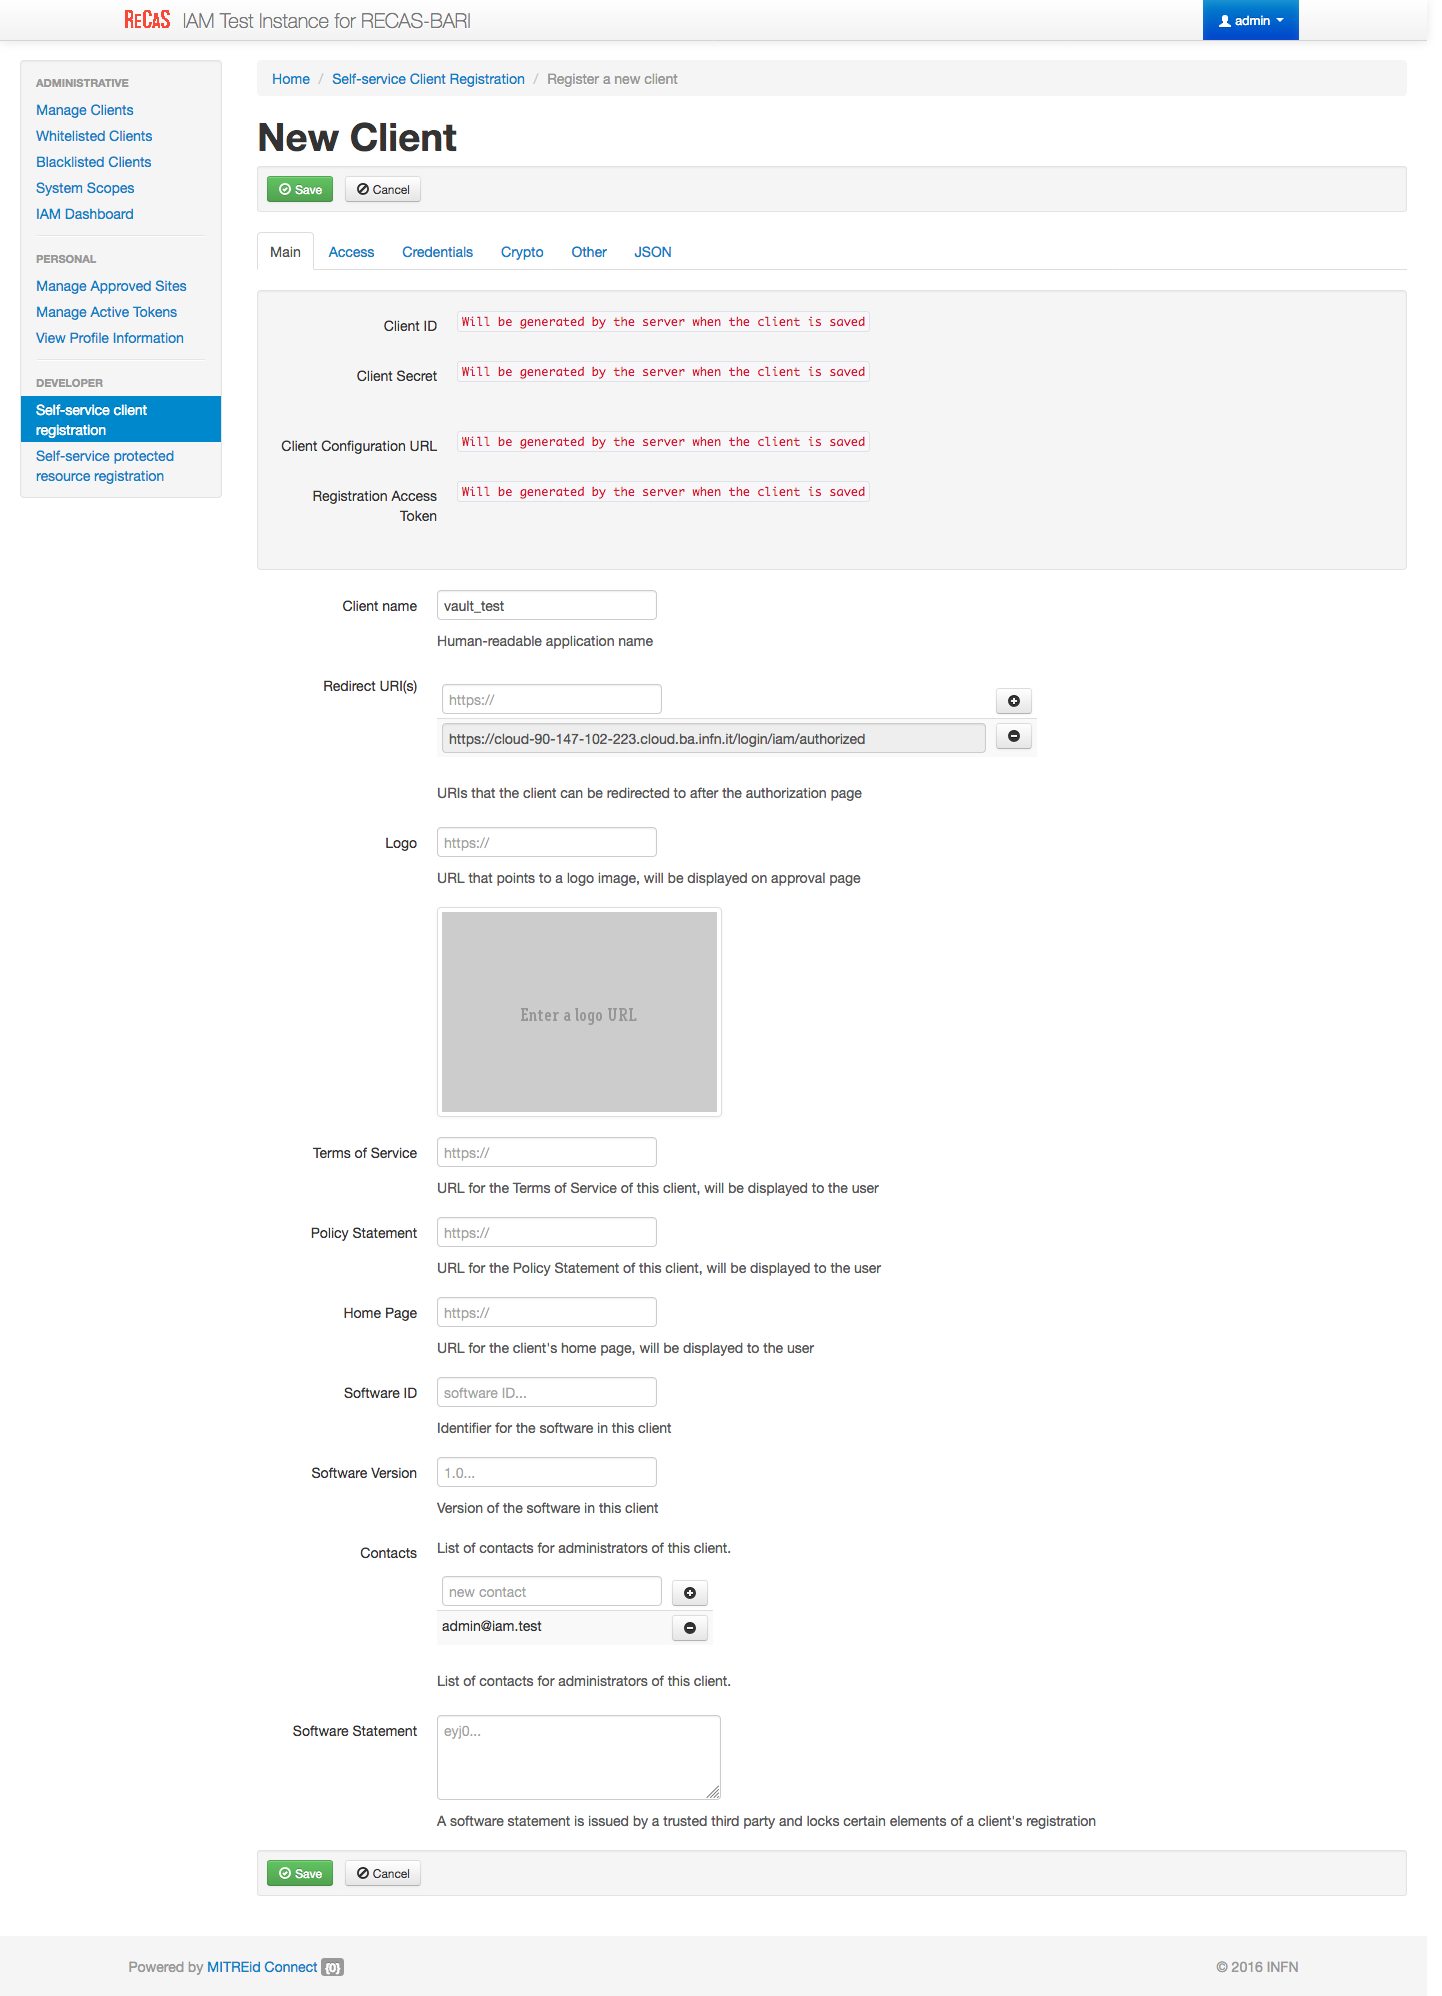
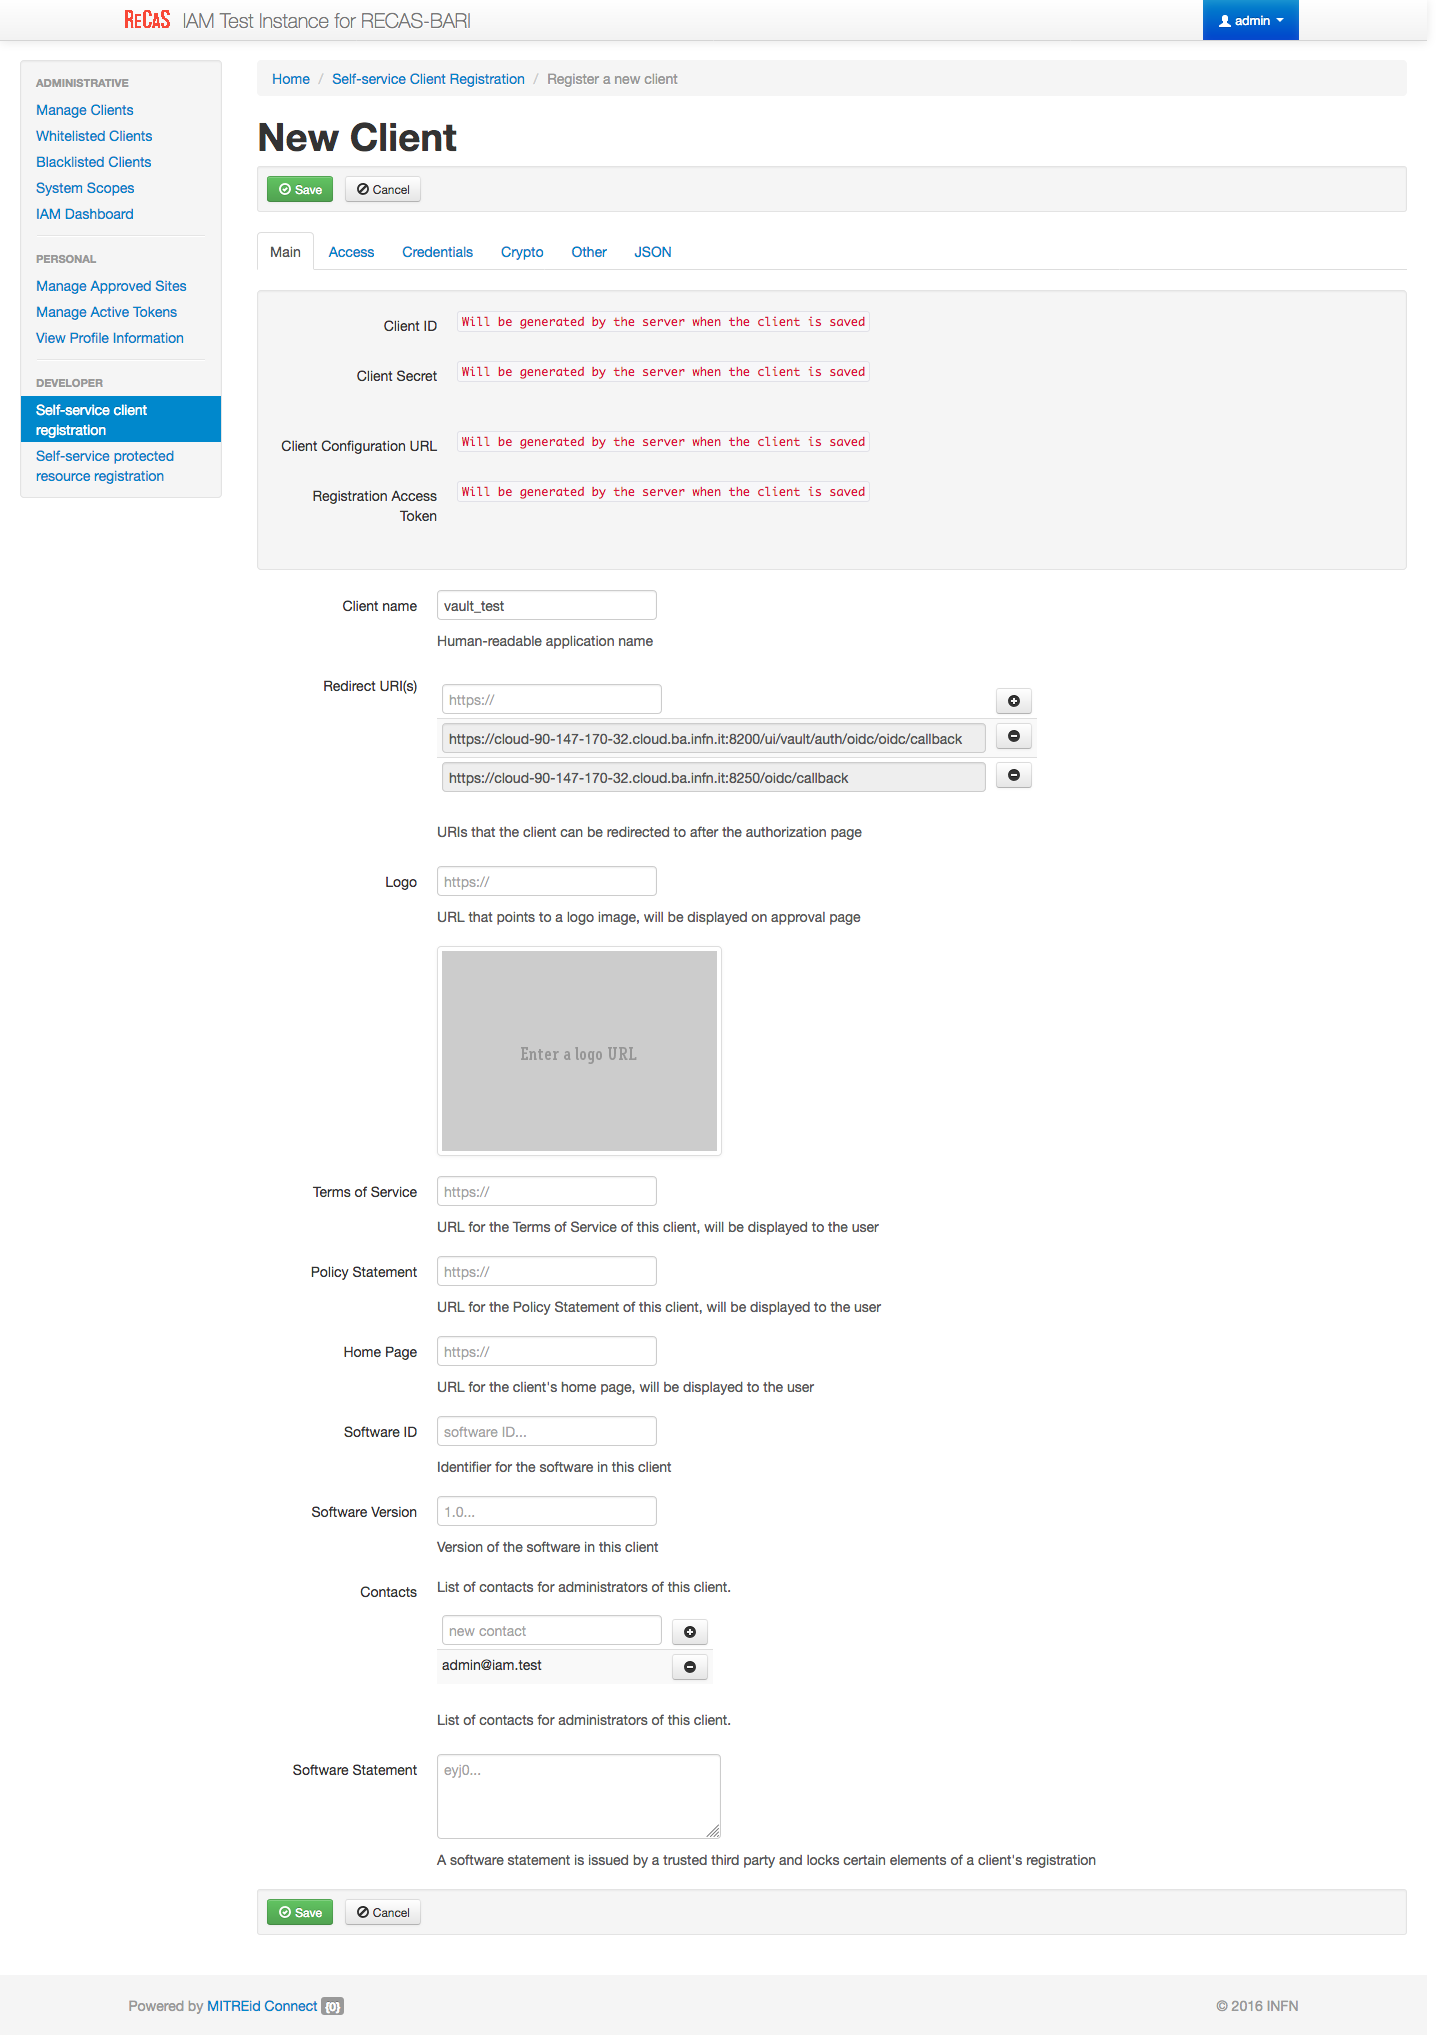
update dashboard configuration

diff --git a/admin_documentation/indigo_paas_deploy/dashboard_vault.rst b/admin_documentation/indigo_paas_deploy/dashboard_vault.rst
@@ -5,21 +5,33 @@ Install Laniakea dashboard (database and vault version)
 
    Vault integration leverages on MySQL database. It can't work with dashboard stateless version
 
-IAM client configuration
--------------------------------
 
+Update the dashboard IAM client configuration 
+---------------------------------------------
 
-#. Navigate to **MitreID Dashboard** and then **Self-service client registration**
+To enable Vault integration the **token exchange** is needed. Therefore, edit the IAM client previously created for the dashboard.
+
+Enable **token exchange** accessing to the client configuration page as Administrator user, through the **ADMINISTRATIVE**, **Manage Clients** and check the flag ``token exchange`` in the ``Grany types`` section.
+
+.. figure:: _static/dashboard/dashboard_admin_client_access.png
+   :scale: 30%
+   :align: center
+
+IAM client configuration for Vault
+----------------------------------
+
+Create another IAM client for Vault, to enable oidc integration to authenticate users.
 
 #. Login on IAM then **MitreID Dashboard** and select **Self-service client registration** as Administrator user.
 
-#. Click on **New client** and fill the form with the following paramethers
+#. Click on **New client** with the following paramethers
 
    ::
 
-     Client name = dashboard_client
+     Client name: vault_client
 
-     redirect URI(s) = https://<dashboard_vm_dns_name>/login/iam/authorized
+     redirect URI(s): https://<dashboard_vm_dns_name>:8200/ui/vault/auth/oidc/oidc/callback
+                      https://<dashboard_vm_dns_name>:8250/oidc/callback
 
    .. figure:: _static/vault/vault_client_main.png
       :scale: 30%
@@ -30,12 +42,6 @@ IAM client configuration
    ::
 
      Scopes: openid, profile, email, address, phone, offline_access
-
-   and for **Grant Types** select:
-
-   ::
-
-     Grant types: authorization code
 
    .. figure:: _static/vault/vault_client_access.png
       :scale: 30%
@@ -53,7 +59,7 @@ Create the file ``indigopaas-deploy/ansible/inventory/group_vars/orchestrator-da
 ::
 
   dashboard_fqdn: <dashboard_vm_dns_name>
-  dashboard_image_name: laniakeacloud/laniakea-dashboard:stable
+  dashboard_image_name: laniakeacloud/laniakea-dashboard
   
   dashboard_iam_issuer: "https://<iam_address>/"
   dashboard_iam_client_id: "<im_client_id>'"
@@ -86,6 +92,11 @@ Create the file ``indigopaas-deploy/ansible/inventory/group_vars/orchestrator-da
 
    Set also your custom mysql password with: ``dashboard_mysql_root_password`` and ``dashboard_mysql_password``.
 
+
+.. note::
+
+   A valid token to create policies and enable OIDC authentication on vault is needed. Here, for simplicity we use the root token gathered in the Vault installation section :doc:`vault`.
+
 Run the role using the ``ansible-playbook`` command:
 
 ::
@@ -97,3 +108,7 @@ Run the role using the ``ansible-playbook`` command:
 
 Video Tutorial
 --------------
+
+.. raw:: html
+
+   <a href="https://asciinema.org/a/x9teGZ7yhuSilpDdHCDsesMMz" target="_blank"><img src="https://asciinema.org/a/x9teGZ7yhuSilpDdHCDsesMMz.svg" /></a>

diff --git a/admin_documentation/indigo_paas_deploy/dashboard.rst b/admin_documentation/indigo_paas_deploy/dashboard.rst
@@ -32,11 +32,11 @@ Network Private IP address.
 IAM client configuration
 -------------------------------
 
-#. Login as admin
+#. Login on IAM as Administrator User.
 
-#. Navigate to **MitreID Dashboard** and then **Self-service client registration**
+#. Navigate to **MitreID Dashboard** and select from the left panel **Self-service client registration**.
 
-#. Click on **New client** and fill the form with the following paramethers
+#. Create a **New client** and fill the form with the following paramethers
 
    ::
 
@@ -64,16 +64,9 @@ IAM client configuration
       :scale: 30%
       :align: center
 
-#. Save **Client ID**, **Client Secret** and **Registration Access Token**.
+#. Save.
 
-#. From Manage Clients Re-edit the client and set also in tokens:
-
-   * Refresh tokens are issued for this client
-   * Refresh tokens for this client are re-used
-   * Active access tokens are automatically revoked when the refresh token is used
-   * Refresh tokens do not time out 
-
-6. Save
+#. Save **Client ID**, **Client Secret** and **Registration Access Token** or the full output json in the **JSON** tab for future access.
 
 Installation
 ------------

diff --git a/admin_documentation/indigo_paas_deploy/vault.rst b/admin_documentation/indigo_paas_deploy/vault.rst
@@ -150,6 +150,10 @@ The Vault initialization can not be automated. To initialize it and get your roo
      identity_policies    []
      policies             ["root"]
 
+.. warning::
+
+   Save the unseal keys and the root token. Please read `Vault documentation <https://www.vaultproject.io/docs/concepts/seal.html>`_.
+
 Initialization video tutorial
 *****************************
 
